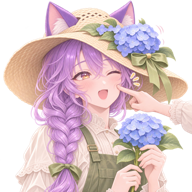
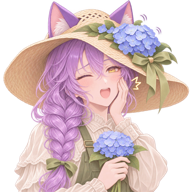
agy 戳一戳和 Claude / Codex 同一套节奏，被戳图重画成不带手指
- 被戳的反应看心情换一下状态图，一秒多就回到原图（台词照样留 3 秒）：
  心情好脸红「呀！」，歇着揉眼睛，慌了「诶？」，累了闭眼缓一缓，快用完抬眼看一下，
  睡着了揉揉眼接着睡；心情好时连戳闹别扭，快用完、睡着时不闹。长度和 Claude 的反应动画相近
- agy 换图时淡入淡出 0.18 秒（姿势差得比 Claude 的脸大）；反应帧缺图就留在心情图上，不闪
- 三款被戳图重画：画面里只有她自己捂着脸颊，没有别人的手指。
  第一版带手指的 6 个文件按指纹登记成坏图，防止再出现
- 补图说明里的被戳图提示词同步改成不画手指

diff --git a/QuotaPet/Sources/QuotaPet/Views/OfficialOverviewView.swift b/QuotaPet/Sources/QuotaPet/Views/OfficialOverviewView.swift
@@ -35,9 +35,11 @@ struct OfficialOverviewView: View {
     var refreshNotice: RefreshNotice?
     var onMenu: () -> Void = {}
     var onQuit: () -> Void = {}
-    /// agy 被戳时的反应图（annoyed：连戳闹别扭）；还没补这张图时是 nil
-    var pokeArtwork: (OfficialPetChoice, Bool) -> NSImage? = { _, _ in nil }
-    @State private var agyPoke: Bool?
+    /// agy 被戳时反应里某一帧的图（这款的「-状态」图）；还没补这张图时是 nil，照常显示心情图
+    var pokeArtwork: (OfficialPetChoice, String) -> NSImage? = { _, _ in nil }
+    /// agy 被戳的反应（OfficialPetChoice.agyReaction）和正在显示的那一帧
+    @State private var agyReaction: [OfficialPetChoice.Reaction] = []
+    @State private var agyFrame: OfficialPetChoice.Reaction?
     /// 戳了一下宠物：外面按连戳次数挑一句回话（没反应时是 nil）
     var onPoke: (PetMood) -> (line: String, annoyed: Bool)? = { _ in nil }
     /// 渲染预览图时固定「现在」
@@ -46,7 +48,7 @@ struct OfficialOverviewView: View {
     var pinFooter = false
     var onHeight: (CGFloat) -> Void = { _ in }
 
-    /// 被戳后回的那句、反应表情（Claude / Codex 的形象有反应动画；agy 是静态图，只弹一下）
+    /// 被戳后回的那句、反应表情（Claude / Codex 播动画表里的反应帧；agy 按同样的节奏换一下状态图）
     @State private var pokedLine: String?
     @State private var reaction: [PetFrame] = []
     @State private var reactionFrame: PetFrame?
@@ -176,23 +178,33 @@ struct OfficialOverviewView: View {
         let mood = Self.artMood(entry: entry, snapshot: snapshot, agyReading: reading, agyHistory: agyHistory,
                                 refreshing: entry == .antigravity ? querying : refreshing, now: now)
         let tint = known == nil ? Color(nsColor: .systemGray) : Level.mood(mood)
+        // agy 反应帧真有图时才换（缺图、登记过的坏图就留在心情图上，不做淡入淡出）
+        let agyShown = choice.isAntigravity ? agyFrame.flatMap { frame in pokeArtwork(choice, frame.state).map { (frame.state, $0) } } : nil
+        let agyKey = agyShown?.0 ?? mood.rawValue
         return HStack(alignment: .top, spacing: 12) {
             Button {
                 guard let reply = onPoke(mood) else { return }
                 pokedLine = reply.line
-                agyPoke = choice.isAntigravity ? reply.annoyed : nil
-                // agy 是静态立绘，没有反应动画：清空，绝不沿用上一只宠物的表情
+                // 只放当前这款的反应：Claude / Codex 用动画表，agy 用状态图，绝不沿用上一只宠物的表情
                 reaction = choice.style.map { PetSprites.reaction(for: mood, style: $0, annoyed: reply.annoyed) } ?? []
+                agyReaction = choice.isAntigravity ? OfficialPetChoice.agyReaction(for: mood, annoyed: reply.annoyed) : []
                 reactionFrame = nil
+                agyFrame = nil
                 pokes += 1
             } label: {
-                // 反应表情只画当前这款形象的（切换宠物的瞬间不会露出上一只的表情）
-                Image(nsImage: reactionFrame.flatMap { $0.portrait.style == choice.style ? PetRenderer.image($0.portrait) : nil }
-                      ?? agyPoke.flatMap { choice.isAntigravity ? pokeArtwork(choice, $0) : nil }
-                      ?? artwork(choice, mood))
-                    .resizable()
-                    .interpolation(.high)
-                    .aspectRatio(contentMode: .fit)
+                // 反应表情只画当前这款形象的（切换宠物的瞬间不会露出上一只的表情）。
+                // agy 每张图的姿势差得多，换图时淡入淡出一下；Claude / Codex 的帧只换脸，照旧直接切
+                ZStack {
+                    Image(nsImage: reactionFrame.flatMap { $0.portrait.style == choice.style ? PetRenderer.image($0.portrait) : nil }
+                          ?? agyShown?.1
+                          ?? artwork(choice, mood))
+                        .resizable()
+                        .interpolation(.high)
+                        .aspectRatio(contentMode: .fit)
+                        .id(choice.isAntigravity ? "\(choice.rawValue)-\(agyKey)" : choice.rawValue)
+                        .transition(.opacity)
+                }
+                .animation(choice.isAntigravity ? .easeInOut(duration: 0.18) : nil, value: agyKey)
                     .frame(width: 96, height: 96)
                     .background(RoundedRectangle(cornerRadius: 18, style: .continuous).fill(tint.opacity(0.13)))
                     .clipShape(RoundedRectangle(cornerRadius: 18, style: .continuous))
@@ -203,7 +215,7 @@ struct OfficialOverviewView: View {
             .accessibilityLabel(tr("戳一下宠物", "Poke the pet"))
             .task(id: "\(pokes)-\(choice.rawValue)") {  // 换了宠物就取消正在播的反应
                 // 播完反应表情回到平时；那句话留到 pokeLineDuration。又戳一下时这个任务会被取消，别把新的那句清掉
-                guard pokes > 0, !reaction.isEmpty || pokedLine != nil else { return }
+                guard pokes > 0, !reaction.isEmpty || !agyReaction.isEmpty || pokedLine != nil else { return }
                 var elapsed: TimeInterval = 0
                 for frame in reaction {
                     reactionFrame = frame
@@ -211,12 +223,19 @@ struct OfficialOverviewView: View {
                     if Task.isCancelled { return }
                     elapsed += frame.duration
                 }
+                for frame in agyReaction {
+                    agyFrame = frame
+                    try? await Task.sleep(nanoseconds: UInt64(frame.duration * 1_000_000_000))
+                    if Task.isCancelled { return }
+                    elapsed += frame.duration
+                }
                 reactionFrame = nil
+                agyFrame = nil
                 let rest = PetChat.pokeLineDuration - elapsed
                 if rest > 0 { try? await Task.sleep(nanoseconds: UInt64(rest * 1_000_000_000)) }
-                if !Task.isCancelled { pokedLine = nil; agyPoke = nil }
+                if !Task.isCancelled { pokedLine = nil }
             }
-            .onChange(of: choice.rawValue) { pokedLine = nil; reactionFrame = nil; reaction = []; agyPoke = nil }  // 换了一只宠物
+            .onChange(of: choice.rawValue) { pokedLine = nil; reactionFrame = nil; reaction = []; agyFrame = nil; agyReaction = [] }  // 换了一只宠物
             VStack(alignment: .leading, spacing: 4) {
                 HStack(spacing: 6) {
                     Text(entry.tabName)

diff --git a/QuotaPet/Sources/QuotaPetCore/OfficialPetChoice.swift b/QuotaPet/Sources/QuotaPetCore/OfficialPetChoice.swift
@@ -52,13 +52,42 @@ public struct OfficialPetChoice: RawRepresentable, Equatable, Sendable {
 
     /// agy 被戳时的反应图：-poke（被戳一下）/ -pout（连戳闹别扭）。Claude / Codex 用动画表里的反应帧，不走这里
     public func pokeFile(annoyed: Bool, panel: Bool) -> String? {
-        guard isAntigravity else { return nil }
-        let base = panel ? panelFile : menuFile
-        return String(base.dropLast(4)) + (annoyed ? "-pout.png" : "-poke.png")
+        reactionFile(state: annoyed ? "pout" : "poke", panel: panel)
     }
 
-    /// 0.4.3 带来的坏图：「元气满满」是切错的 2×2 拼图碎片，「快撑不住」是整张拼图或标错的表情。
-    /// 按文件内容指纹认：这些图当作缺图（退回基础图）；用 scripts/import-agy-art.sh 重画后指纹变了就自动启用
+    /// agy 反应里某一帧的图：这款的「-状态」图（poke、pout，或 loading、tired 这类心情图）
+    public func reactionFile(state: String, panel: Bool) -> String? {
+        guard isAntigravity else { return nil }
+        let base = panel ? panelFile : menuFile
+        return String(base.dropLast(4)) + "-\(state).png"
+    }
+
+    /// agy 被戳时的一帧：显示哪张状态图、停多久
+    public struct Reaction: Equatable, Sendable {
+        public let state: String
+        public let duration: TimeInterval
+        init(_ state: String, _ duration: TimeInterval) { self.state = state; self.duration = duration }
+    }
+
+    /// agy 被戳的反应，节奏和 Claude / Codex 的动画表一样（PetSprites.reaction）：看心情换一下表情，一秒多就回到原来的图，
+    /// 台词照样留到 pokeLineDuration。只用这款已有的状态图拼，不另画
+    public static func agyReaction(for mood: PetMood, annoyed: Bool) -> [Reaction] {
+        if annoyed, mood.pouts { return [Reaction("pout", 1.6)] }
+        switch mood {
+        case .energetic, .normal, .revived: return [Reaction("poke", 1.4)]  // 被戳到脸颊，「呀！」
+        case .resting: return [Reaction("loading", 0.9)]                    // 迷迷糊糊揉一下眼睛
+        case .nervous: return [Reaction("confused", 0.9)]                   // 吓一跳：「诶？」
+        case .tired: return [Reaction("sleeping", 0.9)]                     // 闭眼缓一缓
+        case .exhausted: return [Reaction("tired", 0.9)]                    // 抬眼看你一下
+        case .sleeping: return [Reaction("loading", 1.4)]                   // 被叫醒揉揉眼，接着睡
+        case .confused, .loading: return []
+        }
+    }
+
+    /// 登记过的坏图，按文件内容指纹认：这些图当作缺图（退回基础图；被戳的反应图缺了就只弹一下、说台词）。
+    /// 用 scripts/import-agy-art.sh 重画后指纹变了就自动启用。
+    /// - 0.4.3 带来的：「元气满满」是切错的 2×2 拼图碎片，「快撑不住」是整张拼图或标错的表情（已重画）
+    /// - 2026-11-24 第一版被戳图：画面边缘伸进来一只别人的手指，用户不要（已重画成她自己捂脸）
     public static let brokenArtDigests: Set<String> = [
[2 lines of base64/hex data omitted]
@@ -72,6 +101,12 @@ public struct OfficialPetChoice: RawRepresentable, Equatable, Sendable {
[9 lines of base64/hex data omitted]
     ]
 
     /// 文件不存在时退回这款的基础图（没补的状态图不会变成空白）

diff --git a/QuotaPet/Sources/QuotaPetChecks/AgyQuotaChecks.swift b/QuotaPet/Sources/QuotaPetChecks/AgyQuotaChecks.swift
@@ -170,6 +170,27 @@ func checkAgyPrimaryAndStates() {
     check(prism.pokeFile(annoyed: false, panel: true) == "agy/panel-poke.png" && pilot.pokeFile(annoyed: true, panel: false) == "agy/pilot-menu-pout.png",
           "agy 被戳和闹别扭各有一张图")
     check(OfficialPetChoice(rawValue: "witch")!.pokeFile(annoyed: false, panel: true) == nil, "Claude / Codex 的反应用动画表，不走 agy 的图")
+    // 被戳的反应：节奏和 Claude / Codex 一样，一秒多就回到原来的图；看心情换表情，不是一律脸红笑
+    let happyPoke = OfficialPetChoice.agyReaction(for: .energetic, annoyed: false)
+    check(happyPoke.map(\.state) == ["poke"] && happyPoke.map(\.duration).reduce(0, +) < PetChat.pokeLineDuration,
+          "心情好被戳：被戳图停一秒多，短于台词，之后回到心情图")
+    check(OfficialPetChoice.agyReaction(for: .sleeping, annoyed: false).map(\.state) == ["loading"], "睡着被戳：揉揉眼，不脸红笑")
+    check(OfficialPetChoice.agyReaction(for: .exhausted, annoyed: true).map(\.state) == ["tired"], "快用完时连戳也不闹别扭（和 Claude 一样）")
+    check(OfficialPetChoice.agyReaction(for: .normal, annoyed: true).map(\.state) == ["pout"], "心情好时连戳闹别扭")
+    for mood in PetMood.allCases {
+        let total = OfficialPetChoice.agyReaction(for: mood, annoyed: false).map(\.duration).reduce(0, +)
+        let sprite = PetSprites.reaction(for: mood, style: .classic).map(\.duration).reduce(0, +)
+        // 有点懵时没有合适的另一张图，只说话、弹一下
+        check((mood == .confused || abs(total - sprite) < 0.6) && !OfficialPetChoice.agyReaction(for: mood, annoyed: false).contains { $0.state == "pout" },
+              "\(mood) 的反应长度和 Claude 的相近（\(total) vs \(sprite)）")
+        for frame in OfficialPetChoice.agyReaction(for: mood, annoyed: true) + OfficialPetChoice.agyReaction(for: mood, annoyed: false) {
+            for prefix in ["", "pilot-", "gardener-"] {
+                let file = "agy/\(prefix)panel-\(frame.state).png"
+                check(OfficialPetChoice(rawValue: prefix.isEmpty ? "agy" : prefix == "pilot-" ? "agy-aurora" : "agy-stargazer")!
+                        .reactionFile(state: frame.state, panel: true) == file, "反应帧按这款的状态图命名：\(file)")
+            }
+        }
+    }
     check(OfficialPetChoice.resolved("agy/pilot-panel-nervous.png") { $0 == "agy/pilot-panel.png" } == "agy/pilot-panel.png",
           "还没补的状态图退回这款的基础图")
     check(OfficialPetChoice.resolved("agy/panel-tired.png") { _ in true } == "agy/panel-tired.png", "已有的图直接用")
@@ -187,8 +208,8 @@ func checkAgyPrimaryAndStates() {
     } else { check(false, "agy 每周窗口有平均节奏") }
     check(pacedWindows.first { $0.id == "Gemini · 五小时" }?.pace(now: now) == nil, "agy 5 小时窗口不画平均节奏")
     check(pacedWindows.first { $0.id == "Claude / GPT · 每周" }?.pace(now: now) == nil, "官方没给重置时间的窗口不画平均节奏")
-    check(OfficialPetChoice.brokenArtDigests.count == 12 && OfficialPetChoice.brokenArtDigests.allSatisfy { $0.count == 64 },
-          "0.4.3 的 12 张坏图按指纹登记，当作缺图")
+    check(OfficialPetChoice.brokenArtDigests.count == 18 && OfficialPetChoice.brokenArtDigests.allSatisfy { $0.count == 64 },
+          "0.4.3 的 12 张坏图和带手指的 6 张被戳图按指纹登记，当作缺图")
 
     // 表情：读取状态和变化
     check(AgyQuotaPresentation.trendMood(reading: nil, history: [], querying: true, now: now) == .loading, "第一次读取中：醒过来中")

diff --git a/QuotaPet/Sources/QuotaPet/OfficialMenuController.swift b/QuotaPet/Sources/QuotaPet/OfficialMenuController.swift
@@ -36,7 +36,7 @@ struct OfficialPanelRoot: View {
     @ObservedObject var state: OfficialPanelState
     @ObservedObject var settings: AppSettings
     var artwork: (OfficialPetChoice, PetMood) -> NSImage
-    var pokeArtwork: (OfficialPetChoice, Bool) -> NSImage?
+    var pokeArtwork: (OfficialPetChoice, String) -> NSImage?
     var canOpenAntigravity: Bool
     var onSelect: (OfficialQuotaEntry) -> Void
     var onOpenOfficial: (OfficialQuotaEntry) -> Void
@@ -259,8 +259,8 @@ final class OfficialMenuController: NSObject, NSMenuDelegate, NSPopoverDelegate,
                           artwork: { [weak self] choice, mood in
                               self?.artwork(file: choice.file(mood: mood, panel: true), points: 96) ?? NSImage()
                           },
-                          pokeArtwork: { [weak self] choice, annoyed in
-                              guard let self, let file = choice.pokeFile(annoyed: annoyed, panel: true), Self.artExists(file) else { return nil }
+                          pokeArtwork: { [weak self] choice, state in
+                              guard let self, let file = choice.reactionFile(state: state, panel: true), Self.artExists(file) else { return nil }
                               return self.artwork(file: file, points: 96)
                           },
                           canOpenAntigravity: antigravityURL != nil,

diff --git a/design/agy-states/README.md b/design/agy-states/README.md
@@ -1,6 +1,7 @@
 # agy 补充状态图：提示词与导入
 
 > **状态（2026-11-24）**：下面 27 张已全部用 GPT 生成并导入，三款都有完整的 12 种表情。本文留作以后重画某一张时的提示词和导入说明。
+> 第一版三张 `poke` 画了一只别人的手指，已按指纹登记成坏图；已按下面改过的提示词重画导入（她自己捂着脸颊，画面里没有别人的手）。
 
 QuotaPet 的 agy 有三款形象，原先每款有 5 张状态图（平时、元气满满、有点累了、快撑不住、睡着了）。
 App 能用到下面 **7 个新状态**，缺图时会退回这款的「平时」图；补上图片就会生效。
@@ -28,7 +29,7 @@ App 能用到下面 **7 个新状态**，缺图时会退回这款的「平时」
 | `revived` | 刚恢复 | 额度刚重置、一下子回来很多 | 双手握拳欢呼，眼睛发亮，身边几颗小星星 |
 | `nervous` | 有点慌 | 半小时到一小时内用量涨得很快 | 冒冷汗，眼睛睁大，双手在胸前紧张地搓着 |
 | `resting` | 歇着呢 | 一个半小时以上额度没变化（没在用） | 放松地托腮，眯眼微笑，旁边一杯冒热气的茶 |
-| `poke` | 被戳了一下 | 用户点她的头像 | 被戳到脸颊，一只眼闭上，脸红，开心地「呀！」 |
+| `poke` | 被戳了一下 | 用户点她的头像 | 刚被戳了脸颊：一只眼闭上，脸红，开心地「呀！」，自己的手捂着那边脸颊。**画面里只有她，不画别人的手指** |
 | `pout` | 闹别扭 | 连着戳好几下 | 鼓起脸颊，双臂抱胸，扭头斜眼，头顶一个小怒气符号 |
 
 ## 需要重画的 2 个状态
@@ -73,7 +74,7 @@ English version:
 | revived | 棱镜礼装猫耳少女精神满满地复活：双手握拳举在胸前欢呼，眼睛闪亮，大笑，身边飘着几颗小小的四角星，猫尾翘起。 |
 | nervous | 棱镜礼装猫耳少女有点慌：额头和脸颊冒着冷汗，眼睛睁大，嘴巴抿成波浪线，双手在胸前紧张地搓着，猫耳向后压。 |
 | resting | 棱镜礼装猫耳少女悠闲地歇着：一只手托着腮，眯眼微笑，身旁一杯冒着热气的红茶，整体放松。 |
-| poke | 棱镜礼装猫耳少女被戳了一下脸颊：一根手指从画面边缘戳到她的左脸，她一只眼闭上，脸颊泛红，开心地「呀！」，猫耳竖起。 |
+| poke | 棱镜礼装猫耳少女刚被人戳了一下脸颊的反应：一只眼闭上，被戳的那边脸颊泛红、微微鼓起，张嘴露出小虎牙开心又有点害羞地「呀！」，她自己的一只手轻轻捂着那边脸颊，另一只手握成小拳头放在胸前，猫耳竖起。画面里只有她一个人，不要出现别人的手、手指或任何从画面边缘伸进来的东西。 |
 | pout | 棱镜礼装猫耳少女闹别扭：鼓起脸颊，双臂抱在胸前，脸扭向一边，斜眼瞪着，头顶一个小小的怒气符号，猫尾炸毛。 |
 
 ### 反重力飞行员（pilot）
@@ -85,7 +86,7 @@ English version:
 | revived | 反重力飞行员满血复活：一只手竖起大拇指、另一只手握拳，自信地大笑，护目镜反光，身边几道小小的速度线。 |
 | nervous | 反重力飞行员有点慌：冒冷汗，眼睛睁大，双手抓着胸前的绑带，嘴巴抿紧，猫耳向后压。 |
 | resting | 反重力飞行员歇着：护目镜拉到额头上，靠着毛领领口托腮，眯眼放松，旁边一个冒热气的马克杯。 |
-| poke | 反重力飞行员被戳了一下脸颊：一根手指从画面边缘戳到她的脸，她一只眼闭上，脸红，露出虎牙笑着「哇！」。 |
+| poke | 反重力飞行员刚被人戳了一下脸颊的反应：一只眼闭上，脸颊泛红，露出虎牙笑着「哇！」，她自己戴手套的一只手摸着被戳的那边脸颊，另一只手在胸前比个小小的 V，猫耳竖起。画面里只有她一个人，不要出现别人的手、手指或任何从画面边缘伸进来的东西。 |
 | pout | 反重力飞行员闹别扭：鼓起脸颊，双臂抱胸，把护目镜拉下来遮住一只眼，扭头斜眼，头顶一个小怒气符号。 |
 
 ### 绣球花匠（gardener）
@@ -97,7 +98,7 @@ English version:
 | revived | 绣球花匠元气复活：高举怀里的蓝色绣球花，开心大笑，身边飘着几片花瓣和小星星。 |
 | nervous | 绣球花匠有点慌：冒冷汗，眼睛睁大，双手紧紧抱着绣球花，嘴巴抿成波浪线，猫耳向后压。 |
 | resting | 绣球花匠歇着：坐着托腮，眯眼微笑，草帽微微压低，旁边一个冒热气的小茶杯。 |
-| poke | 绣球花匠被戳了一下脸颊：一根手指从画面边缘戳到她的脸，她一只眼闭上，脸红，开心地「呀！」，草帽上的绣球花轻轻晃动。 |
+| poke | 绣球花匠刚被人戳了一下脸颊的反应：一只眼闭上，脸颊泛红，开心地「呀！」，她自己的一只手轻轻按着被戳的那边脸颊，另一只手抱着绣球花，草帽上的绣球花轻轻晃动。画面里只有她一个人，不要出现别人的手、手指或任何从画面边缘伸进来的东西。 |
 | pout | 绣球花匠闹别扭：鼓起脸颊，抱着绣球花扭头，斜眼瞪着，头顶一个小怒气符号。 |
 
 ## 导入
